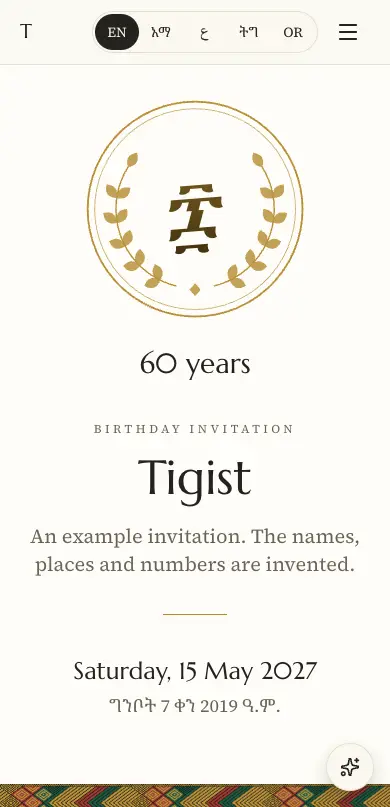
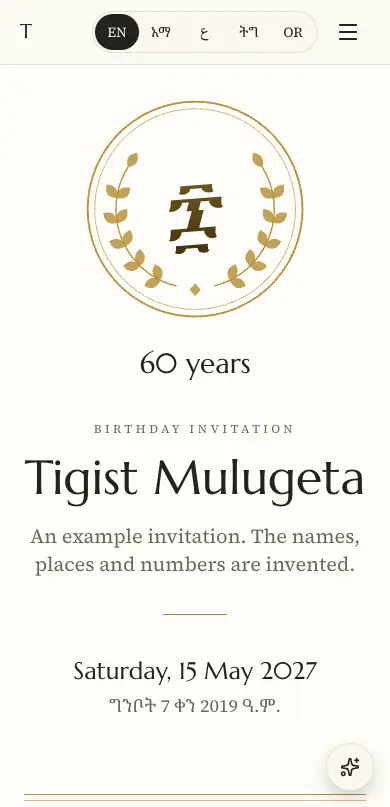
fix: Meto uses the site's border, finds the age in the tagline, and names people in full
- The cover and closing bands follow the border chosen in the admin, like
  every other layout. With the wide woven tibeb the cover's band is two
  columns broad; other borders keep their own height.
- The age is read from the person's line, or else from the site's tagline,
  so "የልዑል ደጃዝማች መንገሻ 100ኛ ዓመት የልደት በዓል" now shows ፻ in the crest.
  Ages written in Ge'ez numerals (፻ኛ, ፹፭) are read too.
- The cover shows the full name (first and father's name) instead of the
  first name or nickname. A new formalNames layout flag does the same for
  the opening screen and the save-the-date. Only Meto sets it, so other
  layouts are unchanged.
- The showcase wording no longer promises the woven tibeb, and the poster
  is retaken with the demo site's own border.

Changed region(s): [[0.0, 0.9603, 1.0, 1.0], [0.0615, 0.5576, 0.9538, 0.6506]]

diff --git a/src/components/events/layouts/meto/index.tsx b/src/components/events/layouts/meto/index.tsx
@@ -12,6 +12,7 @@ import { SaveTheDate } from "@/components/wedding/save-the-date";
 import { ScheduleSection, VenuesSection } from "@/components/wedding/schedule";
 import { toGeez } from "@/lib/geez";
 import { pickText, usesEthiopianCalendar } from "@/lib/localized";
+import { celebratedNames } from "@/lib/site-names";
 import { joinNames } from "@/lib/names";
 import { getTheme } from "@/lib/theme";
 import { formatEthiopianDateLine, formatGregorianDate, formatWeddingDate } from "@/lib/wedding-format";
@@ -19,30 +20,32 @@ import { EventFooter } from "../../event-footer";
 import { EventInvitation } from "../../event-invitation";
 import { GroupedGallery } from "../../grouped-gallery";
 import { HonoreeSection } from "../../honorees";
-import { milestoneNumber } from "../../milestone";
+import { milestoneAge } from "../../milestone";
 import { GeezEmblem } from "./emblem";
 
 /**
  * Meto ("a hundred"): a birthday for an elder, made for a 90th or a 100th.
  * The cover is the page's own sheet with the age in Ge'ez numerals at the
- * heart of a laurel crest, the age written out under it, then the name and
- * the day in both calendars, closed by a broad two-column length of the woven
- * tibeb. Without an age in the person's line the crest gives way to an open
- * adey flower. The adey flower returns with a wish above the replies, and a
- * single woven band closes the page. The woven tibeb is this layout's own
- * mark, so it is drawn whatever border the site picked; the invitation card
- * still carries the site's border.
+ * heart of a laurel crest, the age written out under it, then the full name
+ * (first and father's name, as an elder is addressed) and the day in both
+ * calendars, closed by a band of the site's border. The age is read from the
+ * person's line, or else from the site's tagline; without one the crest gives
+ * way to an open adey flower. The adey flower returns with a wish above the
+ * replies, and the border closes the page. With the wide woven tibeb the cover's
+ * band is two columns broad.
  */
 export async function MetoLayout({ site, locale, names, photos }: LayoutProps) {
   const { couple, honorees } = site;
   const t = await getTranslations("layouts.meto");
   const tInvitation = await getTranslations("invitation");
-  const firstNames = honorees.map((honoree) => pickText(honoree.nick, locale) || pickText(honoree.name, locale));
-  // The age comes from the first honoree's headline ("Turns 100", "100ኛ ልደት").
-  const age = milestoneNumber(pickText(honorees[0]?.headline, locale));
+  // An elder is named in full: first and father's name, never a nickname.
+  const fullNames = celebratedNames(site, locale).full;
+  const tagline = pickText(couple.tagline, locale);
+  // The age comes from the first honoree's line ("Turns 100", "፻ኛ ዓመት"), or else the tagline.
+  const age = milestoneAge(pickText(honorees[0]?.headline, locale), tagline);
   const otherCalendar =
     usesEthiopianCalendar(locale) ? formatGregorianDate(couple.eventAt, couple.timezone) : formatEthiopianDateLine(couple.eventAt, couple.timezone);
-  const tagline = pickText(couple.tagline, locale);
+  const wide = couple.border === "tibeb2";
   const surface = getTheme(couple.theme).scheme === "dark" ? "dark" : "light";
 
   return (
@@ -66,7 +69,7 @@ export async function MetoLayout({ site, locale, names, photos }: LayoutProps) {
               style={{ "--i": 2 } as CSSProperties}
               className="mt-4 max-w-4xl font-display text-[clamp(3rem,11vw,5.75rem)] leading-[1.02]"
             >
-              {joinNames(firstNames)}
+              {joinNames(fullNames)}
             </h1>
             {tagline ? (
               <p data-reveal="up" style={{ "--i": 3 } as CSSProperties} className="mt-5 max-w-[40ch] text-xl text-ink-soft">
@@ -81,7 +84,7 @@ export async function MetoLayout({ site, locale, names, photos }: LayoutProps) {
               <span className="block text-lg text-ink-soft">{otherCalendar}</span>
             </p>
           </div>
-          <Band variant="tibeb2" columns={2} reveal className="h-[4.5rem] sm:h-20" />
+          <Band variant={couple.border} columns={wide ? 2 : 1} reveal className={wide ? "h-[4.5rem] sm:h-20" : undefined} />
         </header>
 
         <EventInvitation site={site} locale={locale} look="card" />
@@ -106,7 +109,7 @@ export async function MetoLayout({ site, locale, names, photos }: LayoutProps) {
         </div>
         <RsvpSection site={site} locale={locale} />
         <MemoriesSection site={site} locale={locale} />
-        <Band variant="tibeb2" className="h-10" />
+        <Band variant={couple.border} />
       </main>
       <EventFooter site={site} locale={locale} />
     </>

diff --git a/src/components/events/milestone.ts b/src/components/events/milestone.ts
@@ -1,14 +1,32 @@
+import { toGeez } from "@/lib/geez";
+
+const MAX_AGE = 120;
+
+/** Every age written in Ge'ez numerals, back to its number: "፻" → 100, "፹፭" → 85. */
+const GEEZ_AGES = new Map(Array.from({ length: MAX_AGE }, (_, i) => [toGeez(i + 1), i + 1] as const));
+
 /**
  * The age in a birthday honoree's headline, so a layout can set it large:
- * "Turns 30", "60th birthday", "ዕድሜ 50". Only a whole number from 1 to 120
- * counts, and only the first one, so "Class of 2026" or a phone number never
- * becomes an age. Null when the line has none.
+ * "Turns 30", "60th birthday", "ዕድሜ 50", "፻ኛ ዓመት". Only a whole number from
+ * 1 to 120 counts, and only the first one, so "Class of 2026" or a phone
+ * number never becomes an age. Null when the line has none.
  */
 export function milestoneNumber(headline: string): number | null {
-  for (const match of headline.matchAll(/\d+/g)) {
-    const value = Number(match[0]);
-    if (value >= 1 && value <= 120 && match[0].length <= 3) return value;
-    return null;
+  const match = /\d+|[፩-፼]+/.exec(headline);
+  if (!match) return null;
+  const [text] = match;
+  if (/^\d+$/.test(text)) {
+    const value = Number(text);
+    return value >= 1 && value <= MAX_AGE && text.length <= 3 ? value : null;
+  }
+  return GEEZ_AGES.get(text) ?? null;
+}
+
+/** The first age found in these lines, in order: the person's own line, then the site's tagline. */
+export function milestoneAge(...lines: string[]): number | null {
+  for (const line of lines) {
+    const age = milestoneNumber(line);
+    if (age) return age;
   }
   return null;
 }

diff --git a/src/app/s/[slug]/page.tsx b/src/app/s/[slug]/page.tsx
@@ -18,7 +18,7 @@ import { getMotionLevel, getOrnament } from "@/lib/appearance";
 import { getAdminUser } from "@/lib/auth";
 import { parseGuestName } from "@/lib/guest";
 import { CLERK_SESSION_COOKIE, TENANT_HEADER } from "@/lib/constants";
-import { LAYOUTS, getLayout } from "@/lib/layout";
+import { LAYOUTS, getLayout, type LayoutMeta } from "@/lib/layout";
 import { isLocale, pickText, type Locale, LANGUAGES, usesEthiopianCalendar } from "@/lib/localized";
 import { getOpening } from "@/lib/opening";
 import { layoutNames, siteTitleNames } from "@/lib/site-names";
@@ -99,12 +99,14 @@ export default async function CoupleSitePage({ params, searchParams }: Props) {
 
   // Three forms of each name: first name on the opening screen, nickname in the
   // hero, and first plus father's name in the formal places.
-  const names = layoutNames(site, locale);
+  const baseNames = layoutNames(site, locale);
 
   // The layout decides the section order and look; the shell around it is shared.
   const layout = getLayout(couple.layout, couple.eventType);
   const Layout = LAYOUT_COMPONENTS[layout];
   const meta = LAYOUTS[layout];
+  // Some layouts name people in full everywhere, the opening and save-the-date included.
+  const names = (meta as LayoutMeta).formalNames ? { ...baseNames, firstOne: baseNames.one, firstTwo: baseNames.two } : baseNames;
   const links = sectionLinks(site, locale, (key) => t(key), meta);
   const photos = site.photos.map((photo) => ({
     id: photo.id,

diff --git a/src/components/events/milestone.test.ts b/src/components/events/milestone.test.ts
@@ -1,17 +1,33 @@
 import { describe, expect, it } from "vitest";
-import { milestoneNumber } from "./milestone";
+import { milestoneAge, milestoneNumber } from "./milestone";
 
 describe("milestoneNumber", () => {
   it("finds the age in the ways people write it", () => {
     expect(milestoneNumber("Turns 30")).toBe(30);
     expect(milestoneNumber("60th birthday")).toBe(60);
     expect(milestoneNumber("ዕድሜ 50")).toBe(50);
+    expect(milestoneNumber("የልዑል ደጃዝማች መንገሻ 100ኛ ዓመት የልደት በዓል")).toBe(100);
+  });
+
+  it("reads an age written in Ge'ez numerals", () => {
+    expect(milestoneNumber("፻ኛ ዓመት")).toBe(100);
+    expect(milestoneNumber("፹፭ ዓመት")).toBe(85);
+    expect(milestoneNumber("፻፲፩")).toBe(111);
   });
 
   it("ignores lines without a believable age", () => {
     expect(milestoneNumber("Our little one")).toBeNull();
     expect(milestoneNumber("Class of 2026")).toBeNull();
     expect(milestoneNumber("0 years")).toBeNull();
+    expect(milestoneNumber("፳፻፲፱")).toBeNull();
     expect(milestoneNumber("")).toBeNull();
+  });
+});
+
+describe("milestoneAge", () => {
+  it("prefers the person's own line, then falls back to the tagline", () => {
+    expect(milestoneAge("Turns 90", "100 years of grace")).toBe(90);
+    expect(milestoneAge("", "100ኛ ዓመት የልደት በዓል")).toBe(100);
+    expect(milestoneAge("Our grandfather", "With love")).toBeNull();
   });
 });

diff --git a/src/lib/layout.ts b/src/lib/layout.ts
@@ -33,6 +33,11 @@ export type LayoutMeta = {
   showsMilestones: boolean;
   /** "dark" layouts swap a light theme for its dark variant. */
   scheme: "theme" | "dark";
+  /**
+   * The opening screen and save-the-date name people in full (first and father's
+   * name) instead of by first name, as an elder is addressed.
+   */
+  formalNames?: boolean;
   /** Opening screen suggested in admin when this layout is picked. */
   defaultOpening: OpeningName;
   /** Themes the admin picker suggests for this layout. */
@@ -252,13 +257,14 @@ export const LAYOUTS = {
     eventTypes: ["birthday"],
     label: "Meto",
     description:
-      "For an elder's 90th or 100th: the age in Ge'ez numerals inside a gold laurel crest, the name and both calendars on a pale cover over a broad length of woven tibeb, and an adey flower with a wish above the replies.",
+      "For an elder's 90th or 100th: the age in Ge'ez numerals inside a gold laurel crest, the full name and both calendars on a pale cover over a band of your border, and an adey flower with a wish above the replies.",
     headerStartSolid: true,
     navOrder: ["invitation", "couple", "schedule", "venues", "gallery", "story", "gifts", "rsvp"],
     showsCouple: true,
     coupleAlways: false,
     showsMilestones: false,
     scheme: "theme",
+    formalNames: true,
     defaultOpening: "adey",
     recommendedThemes: ["netela", "tibeb", "ivory", "lalibela"],
   },

diff --git a/docs/i18n-review-ar.md b/docs/i18n-review-ar.md
@@ -86,9 +86,9 @@ The birthday layout for an elder's 90th or 100th (`src/components/events/layouts
 | `messages/ar.json` | layouts.meto.years | {age, plural, one {# year} other {# years}} | {age, plural, zero {# عام} one {عام واحد} two {عامان} few {# أعوام} many {# عامًا} other {# عام}} | |
 | `messages/ar.json` | layouts.meto.gallery | A life in pictures | حياة في صور | |
 | `messages/ar.json` | layouts.meto.wish | Many happy returns of the day | كل عام وأنتم بخير | |
-| `messages/ar.json` | showcase.layouts.meto.feel | For an elder's 90th or 100th: the age in Ge'ez numerals inside a gold laurel, over a broad band of woven tibeb. | لعيد الميلاد التسعين أو المئة: العمر بالأرقام الجعزية داخل إكليل غار ذهبي، فوق شريط عريض من التطريز المنسوج. | |
+| `messages/ar.json` | showcase.layouts.meto.feel | For an elder's 90th or 100th: the age in Ge'ez numerals inside a gold laurel, and their full name over a band of your border. | لعيد الميلاد التسعين أو المئة: العمر بالأرقام الجعزية داخل إكليل غار ذهبي، والاسم الكامل فوق شريط من إطارك. | |
 | `messages/ar.json` | showcase.layouts.meto.mood | Pale, warm and dignified | فاتح ودافئ ووقور | |
 | `messages/ar.json` | showcase.layouts.meto.goodFor | A 90th, a 100th, or any elder's birthday. | عيد الميلاد التسعون أو المئة، أو ميلاد أي من كبار السن. | |
 | `messages/ar.json` | showcase.layouts.meto.b1 | The age in Ge'ez numerals, read from their own line | العمر بالأرقام الجعزية، يُقرأ من سطرهم الخاص | |
-| `messages/ar.json` | showcase.layouts.meto.b2 | Woven tibeb under the cover and at the close | تطريز منسوج تحت الغلاف وفي الختام | |
+| `messages/ar.json` | showcase.layouts.meto.b2 | Your border under the cover and at the close | إطارك تحت الغلاف وفي الختام | |
 | `messages/ar.json` | showcase.layouts.meto.b3 | An adey flower and a wish above the replies | زهرة أداي وأمنية فوق الردود | |

diff --git a/docs/i18n-review-ti.md b/docs/i18n-review-ti.md
@@ -63,9 +63,9 @@ The birthday layout for an elder's 90th or 100th (`src/components/events/layouts
 | `messages/ti.json` | layouts.meto.years | {age, plural, one {# year} other {# years}} | {age} ዓመት | |
 | `messages/ti.json` | layouts.meto.gallery | A life in pictures | ህይወት ብስእሊ | |
 | `messages/ti.json` | layouts.meto.wish | Many happy returns of the day | እንቋዕ ኣብጽሐኩም | |
-| `messages/ti.json` | showcase.layouts.meto.feel | For an elder's 90th or 100th: the age in Ge'ez numerals inside a gold laurel, over a broad band of woven tibeb. | ንናይ ዓበይቲ 90ይ ወይ 100ይ፦ ዕድመ ብቁጽሪ ግዕዝ ኣብ ውሽጢ ወርቃዊ ኣኽሊል፣ ኣብ ልዕሊ ሰፊሕ ዝተኣልመ ጥልፊ። | |
+| `messages/ti.json` | showcase.layouts.meto.feel | For an elder's 90th or 100th: the age in Ge'ez numerals inside a gold laurel, and their full name over a band of your border. | ንናይ ዓበይቲ 90ይ ወይ 100ይ፦ ዕድመ ብቁጽሪ ግዕዝ ኣብ ውሽጢ ወርቃዊ ኣኽሊል፣ ምሉእ ስሞም ድማ ኣብ ልዕሊ ጥልፍኹም። | |
 | `messages/ti.json` | showcase.layouts.meto.mood | Pale, warm and dignified | ብሩህ፣ ሙቐትን ክቡርን | |
 | `messages/ti.json` | showcase.layouts.meto.goodFor | A 90th, a 100th, or any elder's birthday. | 90ይ፣ 100ይ ወይ ናይ ዝኾነ ዓቢ ሰብ በዓል ልደት። | |
 | `messages/ti.json` | showcase.layouts.meto.b1 | The age in Ge'ez numerals, read from their own line | ዕድመ ብቁጽሪ ግዕዝ፣ ካብ ናይ ገዛእ ርእሶም መስመር ይንበብ | |
-| `messages/ti.json` | showcase.layouts.meto.b2 | Woven tibeb under the cover and at the close | ዝተኣልመ ጥልፊ ኣብ ትሕቲ ሽፋንን ኣብ መወዳእታን | |
+| `messages/ti.json` | showcase.layouts.meto.b2 | Your border under the cover and at the close | ጥልፍኹም ኣብ ትሕቲ ሽፋንን ኣብ መወዳእታን | |
 | `messages/ti.json` | showcase.layouts.meto.b3 | An adey flower and a wish above the replies | ዕምባባ ኣደይን ድሌትን ኣብ ልዕሊ መልስታት | |

diff --git a/docs/i18n-review.md b/docs/i18n-review.md
@@ -692,9 +692,9 @@ The birthday layout for an elder's 90th or 100th (`src/components/events/layouts
 | `messages/am.json` | layouts.meto.years | {age, plural, one {# year} other {# years}} | {age} ዓመት | |
 | `messages/am.json` | layouts.meto.gallery | A life in pictures | የሕይወት ጉዞ በፎቶ | |
 | `messages/am.json` | layouts.meto.wish | Many happy returns of the day | እንኳን አደረሰዎ | |
-| `messages/am.json` | showcase.layouts.meto.feel | For an elder's 90th or 100th: the age in Ge'ez numerals inside a gold laurel, over a broad band of woven tibeb. | ለአዛውንት 90ኛ ወይም 100ኛ ልደት፤ ዕድሜው በግዕዝ ቁጥር በወርቅ የቅጠል አክሊል ውስጥ፣ ከሰፊ የተሸመነ ጥለት በላይ። | |
+| `messages/am.json` | showcase.layouts.meto.feel | For an elder's 90th or 100th: the age in Ge'ez numerals inside a gold laurel, and their full name over a band of your border. | ለአዛውንት 90ኛ ወይም 100ኛ ልደት፤ ዕድሜው በግዕዝ ቁጥር በወርቅ የቅጠል አክሊል ውስጥ፣ ሙሉ ስማቸውም ከጥለትዎ በላይ። | |
 | `messages/am.json` | showcase.layouts.meto.mood | Pale, warm and dignified | ነጣ ያለ፣ ሞቅ ያለ እና የተከበረ | |
 | `messages/am.json` | showcase.layouts.meto.goodFor | A 90th, a 100th, or any elder's birthday. | 90ኛ፣ 100ኛ ወይም የማንኛውም አዛውንት ልደት። | |
 | `messages/am.json` | showcase.layouts.meto.b1 | The age in Ge'ez numerals, read from their own line | ዕድሜው በግዕዝ ቁጥር፣ ከራሳቸው መስመር ይነበባል | |
-| `messages/am.json` | showcase.layouts.meto.b2 | Woven tibeb under the cover and at the close | የተሸመነ ጥለት ከሽፋኑ ስር እና በመጨረሻ | |
+| `messages/am.json` | showcase.layouts.meto.b2 | Your border under the cover and at the close | ጥለትዎ ከሽፋኑ ስር እና በመጨረሻ | |
 | `messages/am.json` | showcase.layouts.meto.b3 | An adey flower and a wish above the replies | የአደይ አበባ እና መልካም ምኞት ከምላሹ በላይ | |

diff --git a/docs/i18n-review-om.md b/docs/i18n-review-om.md
@@ -62,9 +62,9 @@ The birthday layout for an elder's 90th or 100th (`src/components/events/layouts
 | `messages/om.json` | layouts.meto.years | {age, plural, one {# year} other {# years}} | waggaa {age} | |
 | `messages/om.json` | layouts.meto.gallery | A life in pictures | Jireenya suuraadhaan | |
 | `messages/om.json` | layouts.meto.wish | Many happy returns of the day | Baga geessan | |
-| `messages/om.json` | showcase.layouts.meto.feel | For an elder's 90th or 100th: the age in Ge'ez numerals inside a gold laurel, over a broad band of woven tibeb. | Guyyaa dhalootaa maanguddootaa 90ffaa ykn 100ffaaf: umuriin lakkoofsa Gi'iiziin gonfoo warqee keessatti, tibeba hodhame bal'aa irratti. | |
+| `messages/om.json` | showcase.layouts.meto.feel | For an elder's 90th or 100th: the age in Ge'ez numerals inside a gold laurel, and their full name over a band of your border. | Guyyaa dhalootaa maanguddootaa 90ffaa ykn 100ffaaf: umuriin lakkoofsa Gi'iiziin gonfoo warqee keessatti, maqaan guutuunis daangaa keessan irratti. | |
 | `messages/om.json` | showcase.layouts.meto.mood | Pale, warm and dignified | Ifaa, ho'aa fi kabajamaa | |
 | `messages/om.json` | showcase.layouts.meto.goodFor | A 90th, a 100th, or any elder's birthday. | Guyyaa dhalootaa 90ffaa, 100ffaa ykn kan maanguddoo kamiyyuu. | |
 | `messages/om.json` | showcase.layouts.meto.b1 | The age in Ge'ez numerals, read from their own line | Umuriin lakkoofsa Gi'iiziin, sarara isaanii irraa dubbifama | |
-| `messages/om.json` | showcase.layouts.meto.b2 | Woven tibeb under the cover and at the close | Tibeba hodhame fuula duraa jalaa fi dhuma irratti | |
+| `messages/om.json` | showcase.layouts.meto.b2 | Your border under the cover and at the close | Daangaan keessan fuula duraa jalaa fi dhuma irratti | |
 | `messages/om.json` | showcase.layouts.meto.b3 | An adey flower and a wish above the replies | Abaaboo adey fi hawwii deebii olitti | |
